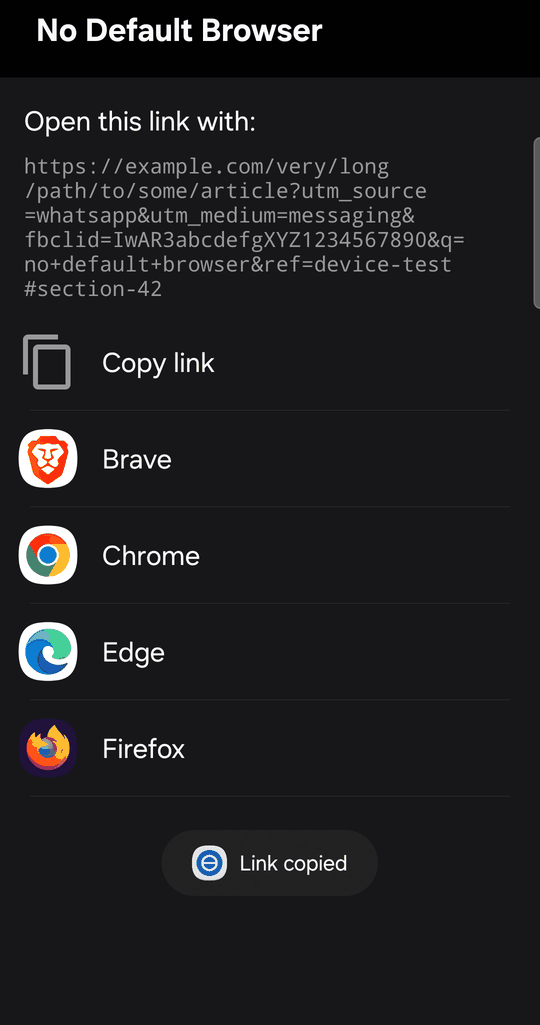
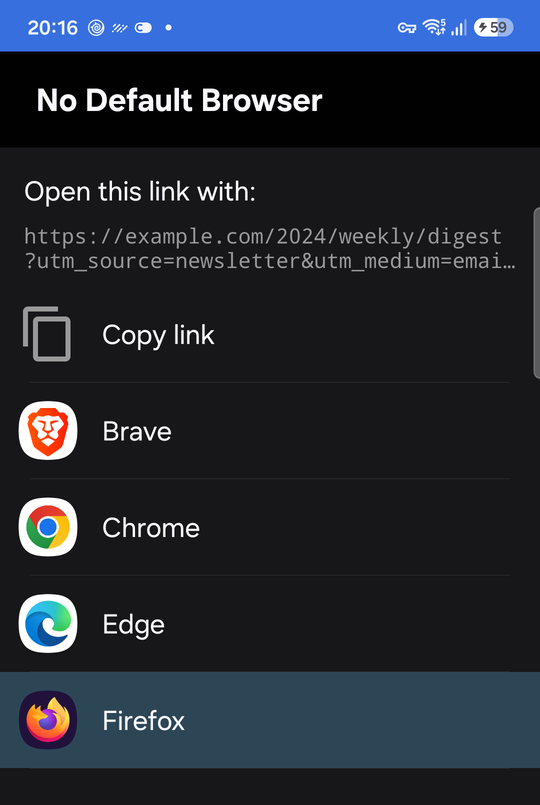
New screenshot: remembered Firefox pick highlighted for a long example.com link

diff --git a/README.md b/README.md
@@ -2,7 +2,7 @@
 
 Pick a browser for every link on Android, so you never need a default browser.
 
-<img src="docs/screenshot.png" width="280" alt="The app listing Brave, Chrome, Edge and Firefox below a link, with a Copy link row on top">
+<img src="docs/screenshot.png" width="280" alt="The app listing Brave, Chrome, Edge and Firefox below a long example.com link, with a Copy link row on top and Firefox highlighted as the remembered pick">
 
 Tap a link in any app → choose **No Default Browser** → pick the browser that should open it, or
 copy the link instead. Choose *Always* once and this app becomes the entry point for every link.
